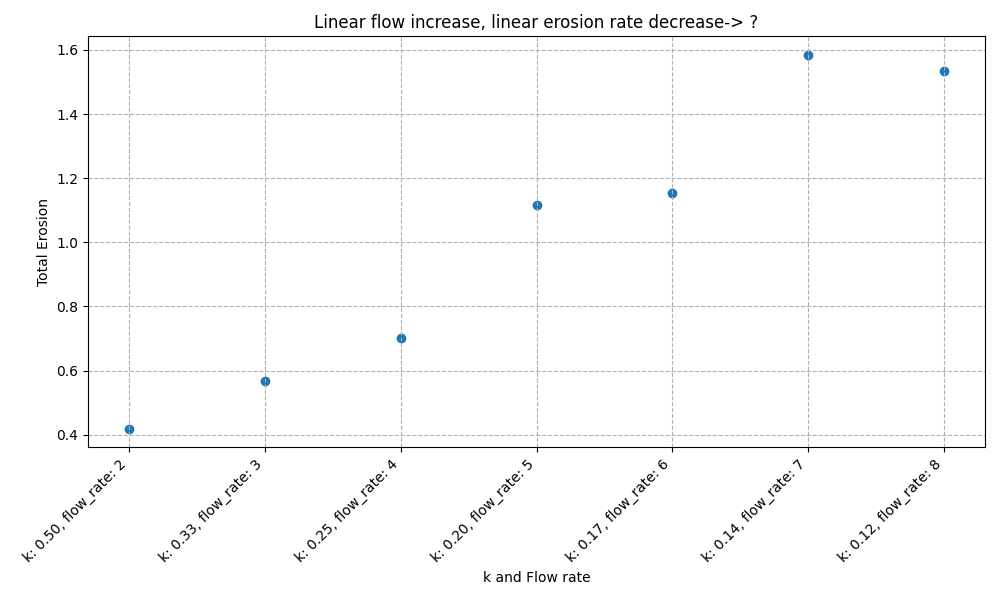
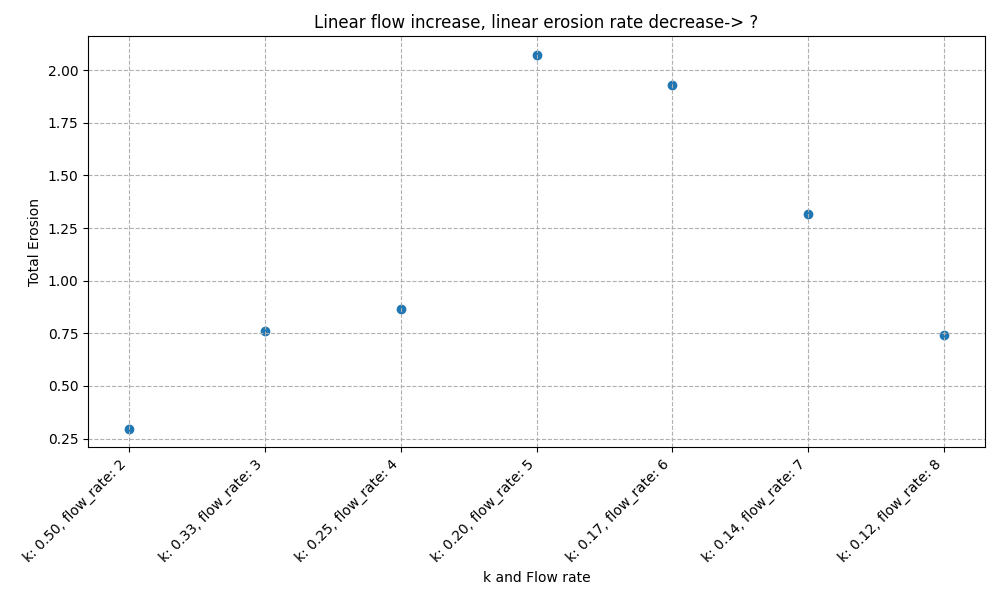
.

diff --git a/src/experiments.py b/src/experiments.py
@@ -20,7 +20,8 @@ def simulation(seed, erosion_rate, flow_rate, slope=101*0.1):
     width, height = 21, 101
     initial_state = generate_initial_slope(height, width, slope, noise_amplitude = 0.1, noise_type = 'white')
     ca = CA(width, height, initial_state, neighbor_list=BOTTOM_NEIGHBORS)
-    grids = ca.run_experiment(100, erosion_rate, flow_rate)
+    nr_of_iterations = 1000
+    grids = ca.run_experiment(nr_of_iterations, erosion_rate, flow_rate)
 
     erosion_per_iteration = []
     previous_ground = grids[0][:, :, 0]
